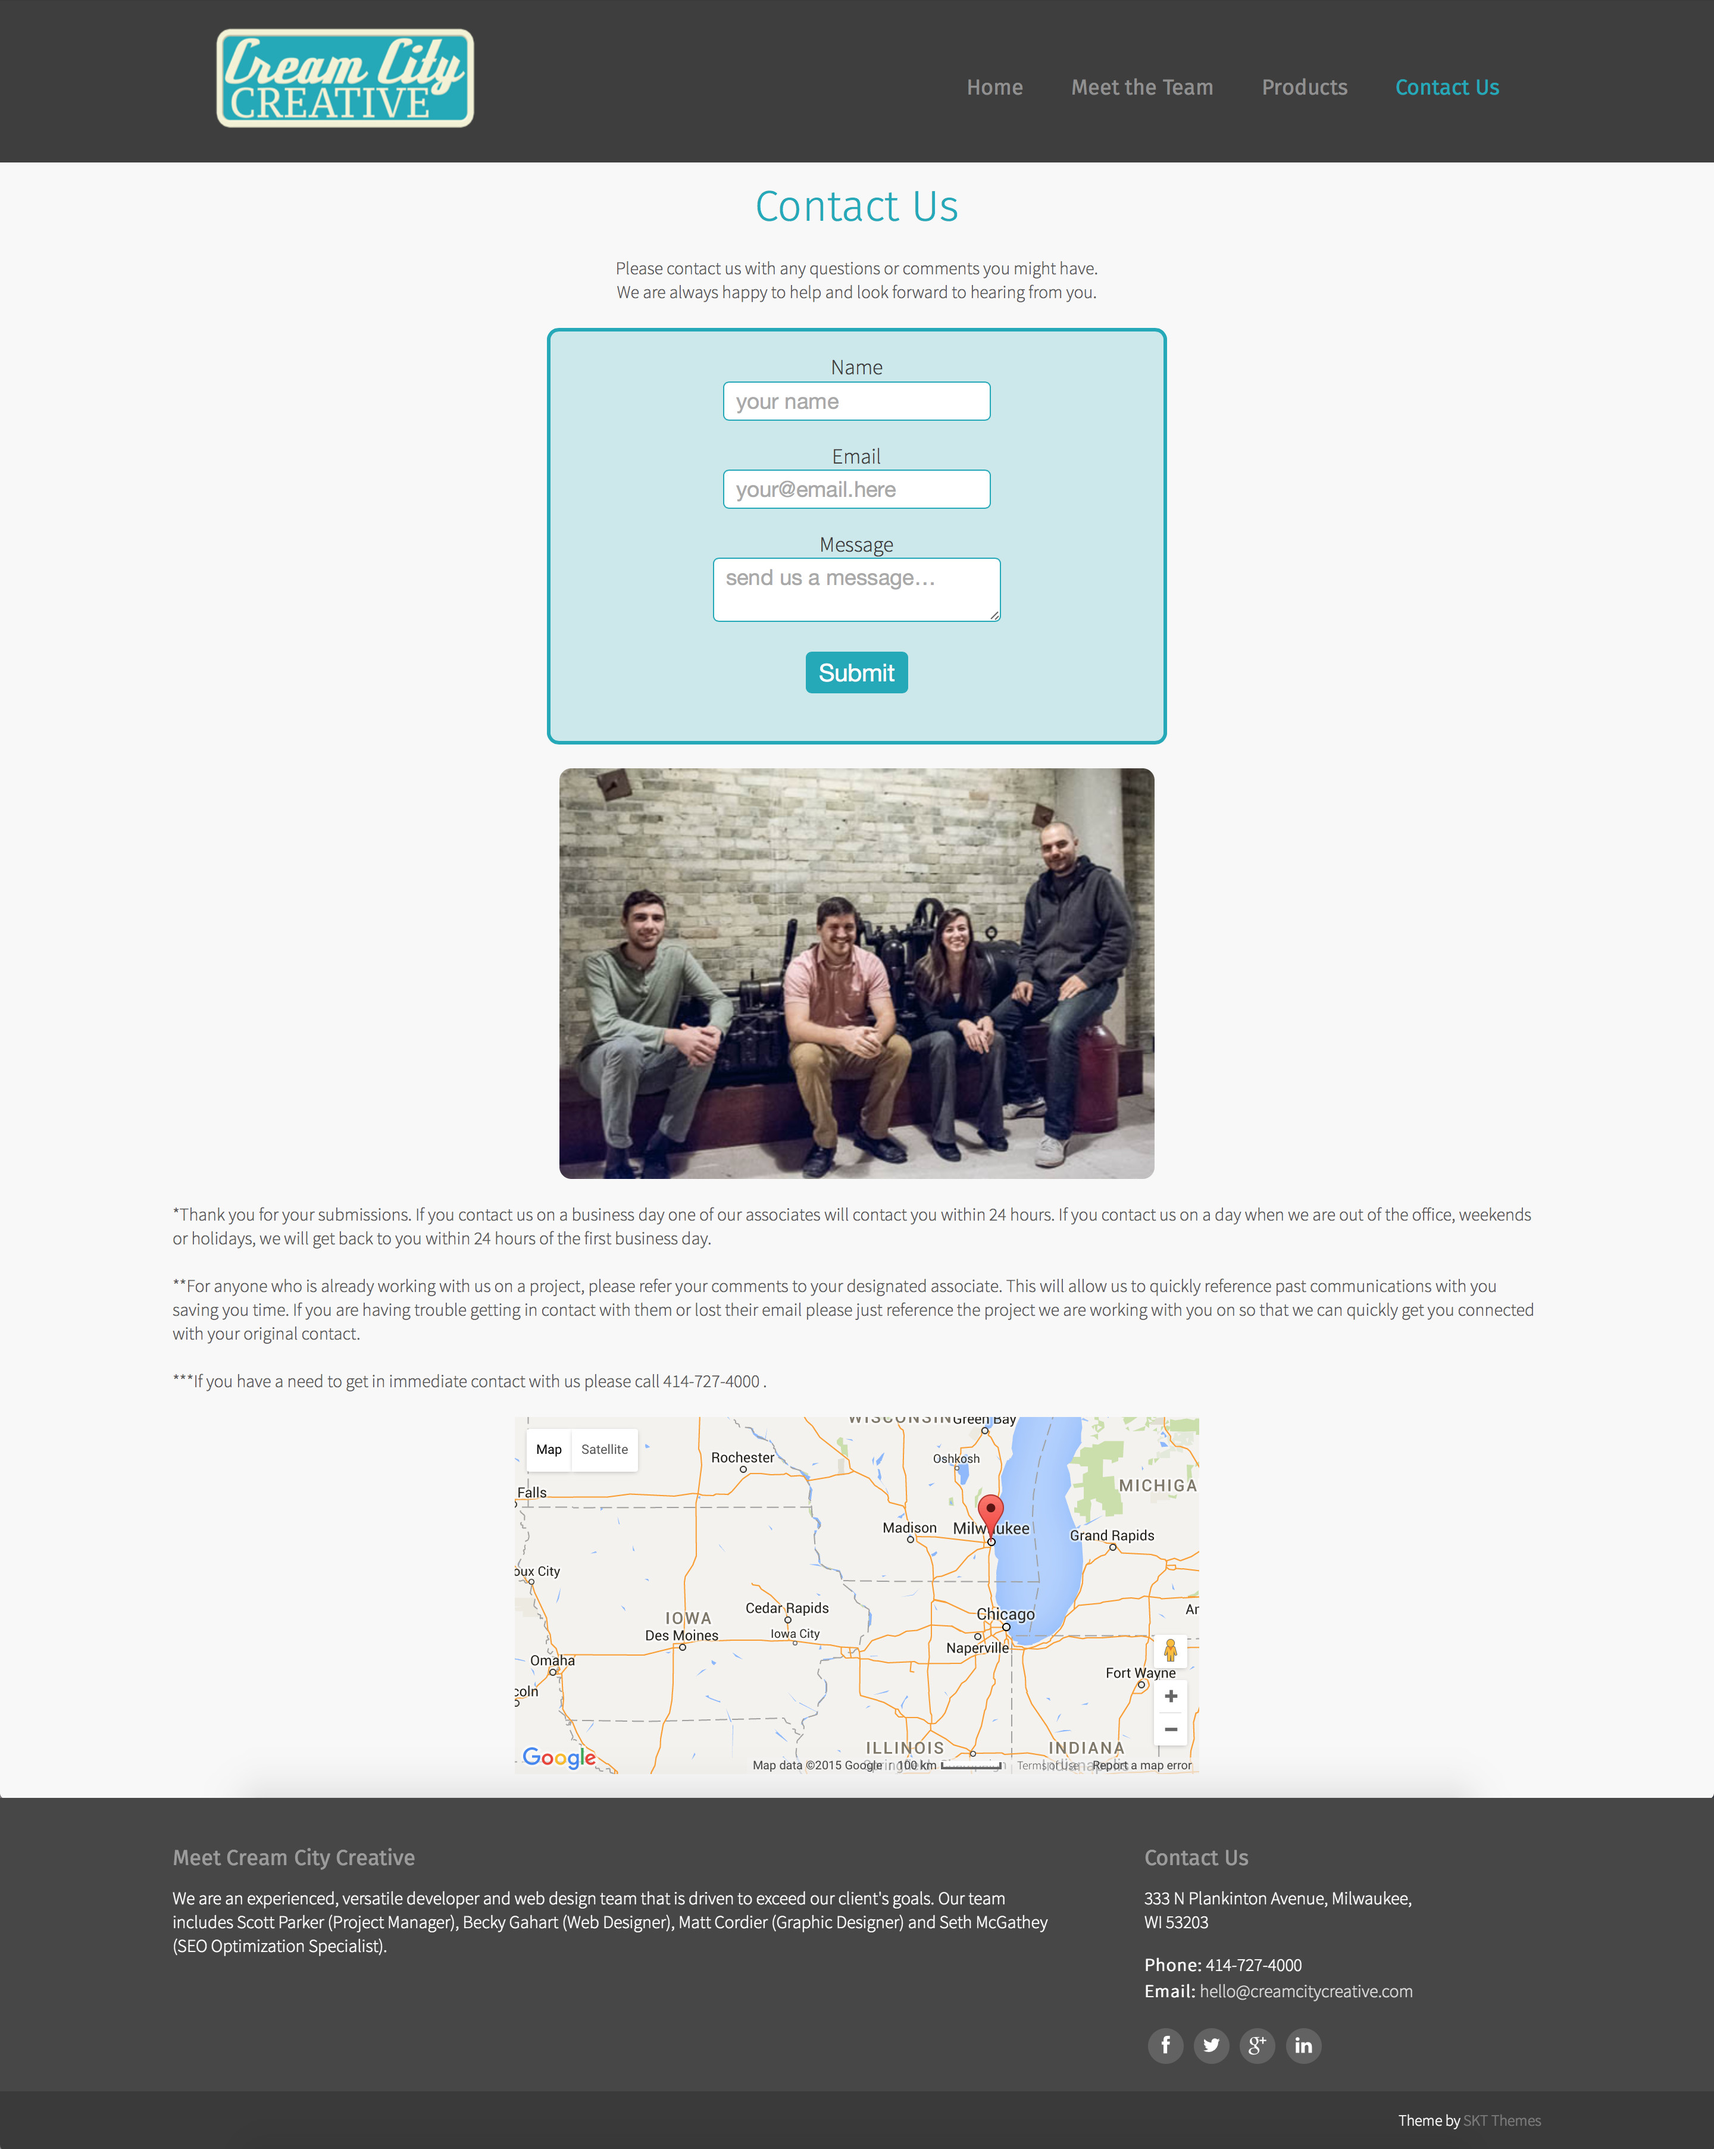
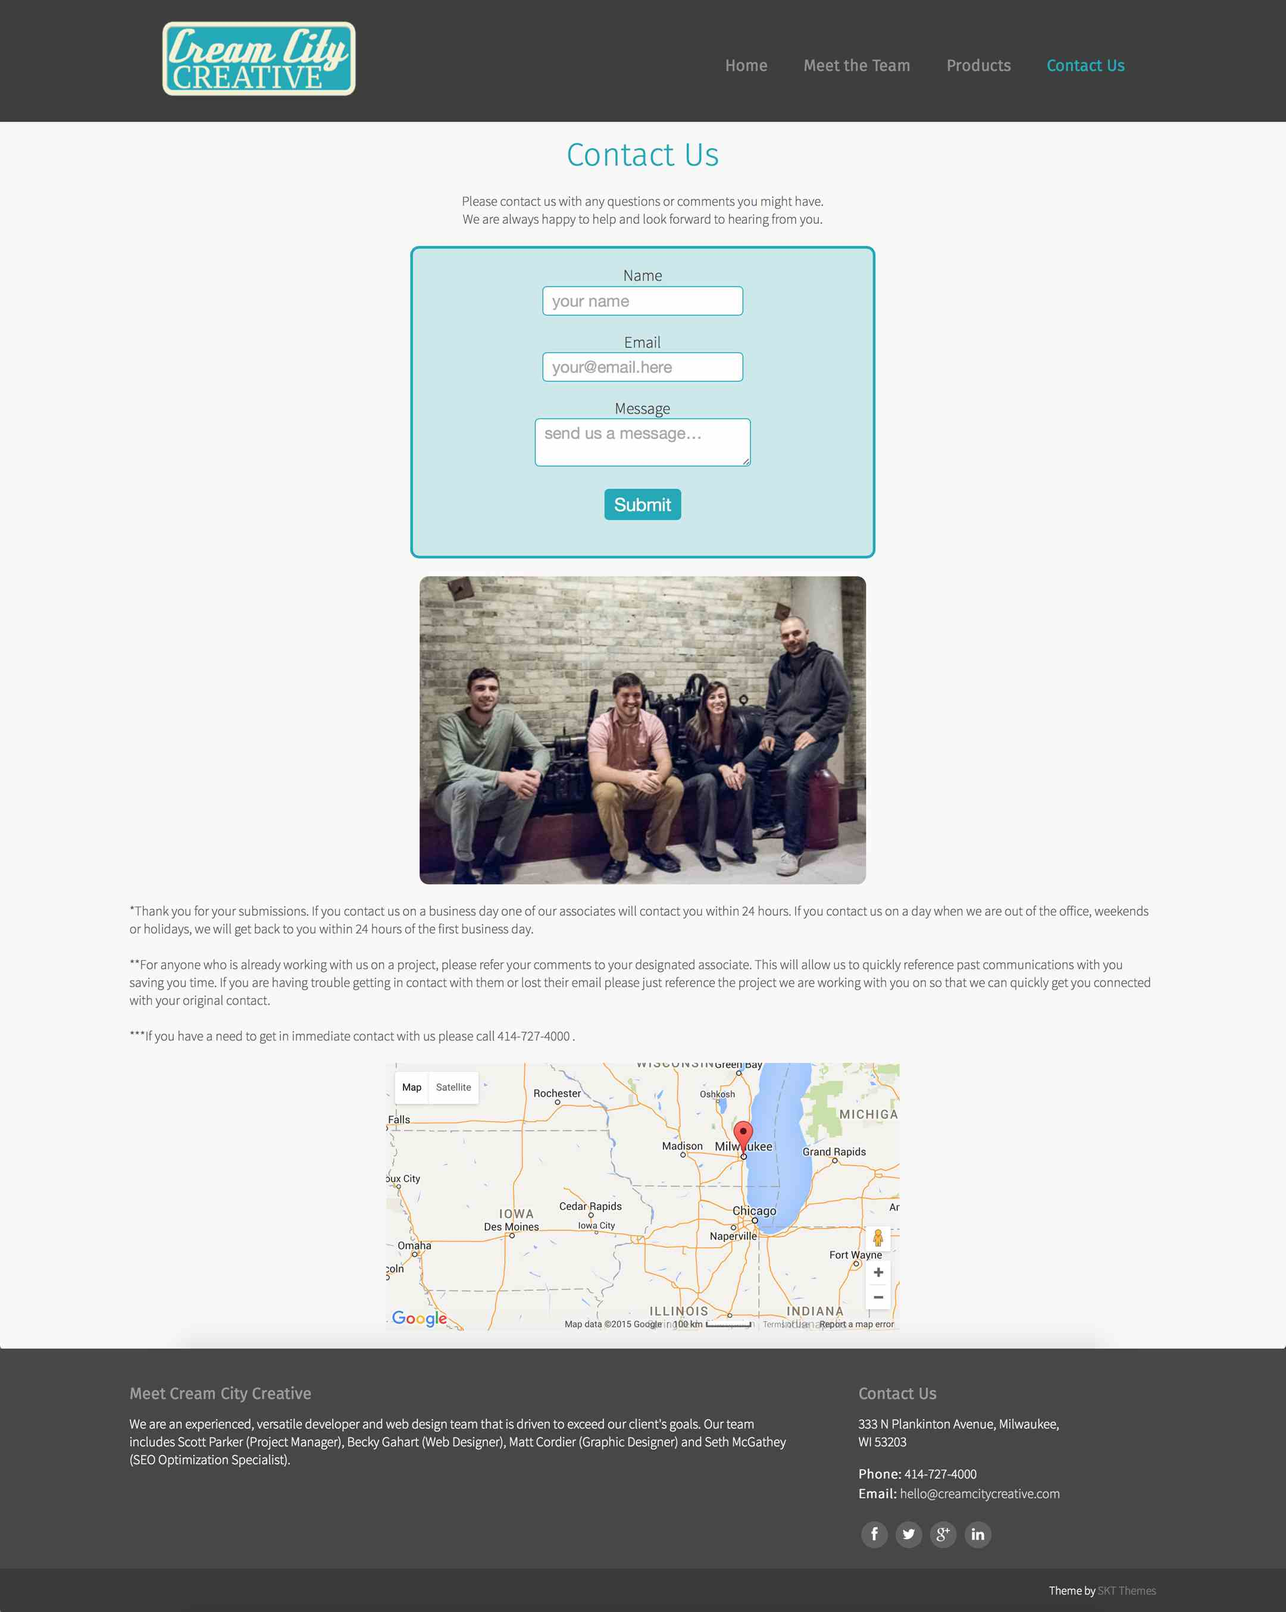
shrank images sizes for better load times

diff --git a/wordpressPage.html b/wordpressPage.html
@@ -88,7 +88,7 @@
                 <div class="wordpressDesktopContainer">
                   <p class="wordpressDesktopLabel">Desktop View</p>
                   <div class="wordpressFullScrollBox">
-                    <img class="centerText wordpressImageFullSize" src='img/wordPressScreenshots/lg-contact.jpg' title='Screenshot of contact page.' alt='Screenshot of contact page.'/>
+                    <img class="centerText wordpressImageFullSize" src='img/wordPressScreenshots2/lg-contact.jpg' title='Screenshot of contact page.' alt='Screenshot of contact page.'/>
                   </div><!--wordpressFullScrollBox-->
                 </div><!--wordpressDesktopContainer-->
                 <div class="wordpressMobileContainer">
